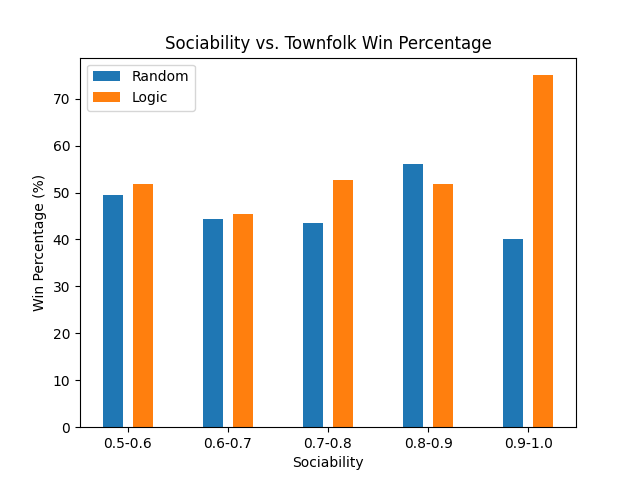
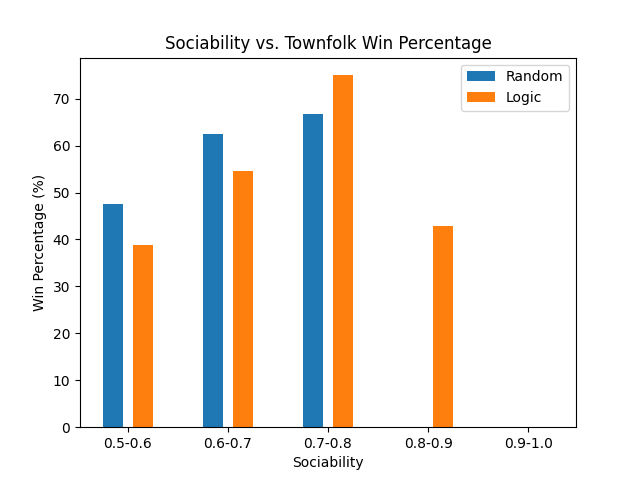
updated README file and added argument parser

diff --git a/main.py b/main.py
@@ -1,8 +1,9 @@
 from MafiaGame import MafiaGame
 import matplotlib.pyplot as plt
+import argparse
 from plot import *
 
-def main():
+def simulate_results(n_villagers, n_mafia, n_detectives, sim_runs):
    results = {
        "Random": {
            "Mafia": [],
@@ -15,7 +16,7 @@ def main():
    }
 
    for strategy in ["Random", "Logic"]:
-      for run in range(1000):
+      for run in range(100):
             mafiaGame = MafiaGame(1, 1, 1, visualize_ks=False, verbose=False)
             if strategy == "Random":
                 result = mafiaGame.start(True, True)
@@ -25,6 +26,34 @@ def main():
 
    plot_sociability_box(results)
    plot_win_percentages(results)
+
+def main():
+   # Initialize the argument parser
+   parser = argparse.ArgumentParser()
+   parser.add_argument("n_v", help="number of villagers")
+   parser.add_argument("n_m", help="number of mafia")
+   parser.add_argument("n_d", help="number of detectives")
+   parser.add_argument("-s", "--sim", nargs='?', default=-1, const=100, help="run a simulation of SIM runs (comparing random vs. strategy)")
+   parser.add_argument("--vis", action="store_true", help="visualize the Kripke structures (during a single run)")
+   parser.add_argument("-v", "--verbose", action="store_true", help="turn verbose on (during a single run)")
+   args = parser.parse_args()
+
+   # Determine the parameter values
+   n_villagers = int(args.n_v)
+   n_mafia = int(args.n_m)
+   n_detectives = int(args.n_d)
+   sim_runs = int(args.sim)
+   vis = args.vis
+   verbose = args.verbose
+   
+   # Run the program
+   if sim_runs != -1:
+      # Perform a simulation
+      simulate_results(n_villagers, n_mafia, n_detectives, sim_runs)
+   else:
+      # Perform a single run
+      mafiaGame = MafiaGame(n_villagers, n_mafia, n_detectives, visualize_ks=vis, verbose=verbose)
+      mafiaGame.start()
 
 if __name__ == '__main__':
    main()

diff --git a/MafiaGame.py b/MafiaGame.py
@@ -115,8 +115,8 @@ class MafiaGame:
                         self.update_detective_knowledge(
                             player, discovered_player)
                         if self.vizualize_ks:
-                            self.ks.visualize(str("Agent " + str(self.players.index(
-                                player)+1) + " (detective) discovered the role of agent " + str(self.players.index(discovered_player)+1) + " (" + str(discovered_player.role)+")"))
+                            self.ks.visualize(str("Agent " + str(self.ks.players.index(
+                                player)+1) + " (detective) discovered the role of agent " + str(self.ks.players.index(discovered_player)+1) + " (" + str(discovered_player.role)+")"))
 
             killed_player = self.night.mafia_phase(kill_randomly)
             killed_player.alive = False

diff --git a/README.md b/README.md
@@ -1,156 +1,19 @@
-# Players
+# Mafia: a game project for LAMAS
 
--   A set of *n* agents
-    *A* = {*a*<sub>1</sub>, *a*<sub>2</sub>, ..., *a*<sub>*n*</sub>}
-    containing:
+Authors: Pieter Jacobs, Tom Veldhuis, Twan Vos
 
-    -   a set of *v* villagers
-        *V* = {*a*<sub>*i*</sub> ∈ *A* \| agent *i* is a villager}
+## Requirements
+The necessary packages for this program to run can be found in `requirements.txt`.
 
-    -   a set of *m* mafia
-        *V* = {*a*<sub>*i*</sub> ∈ *A* \| agent *i* is a mafioso}
+## Usage
+The program can either perform a single run, which can show intermediate Kripke structures during phases of the game and show the events taking place through the terminal:
+```
+python main.py [number of villagers] [number of mafia] [number of detectives] --vis --verbose
+```
 
-    -   a set of *d* detectives
-        *V* = {*a*<sub>*i*</sub> ∈ *A* \| agent *i* is a detective}
+Or perform a simulation of a specified number of runs, after which results will be shown regarding the relation between win percentages of townfolk/mafia and sociability:
+```
+python main.py [number of villagers] [number of mafia] [number of detectives] --sim [number of runs]
+```
 
--   Social parameter: each agent has a unique `social_stat` chance of
-    talking to another agent during a day phase (with
-    0≤`social_stat` ≤ 1)
-
--   During each game, a pre-defined number of players are randomly
-    picked from the set of players. By design, these players are assumed
-    to act suspiciously and can be observed as being suspicious by
-    talking with them.
-
--   Every public announcement by players is assumed to be truthful
-    (including those by mafia).
-
-# Types of knowledge
-
--   Agent *i* is a mafioso: *Maf*<sub>*i*</sub>
-
--   Agent *i* is a detective: *Det*<sub>*i*</sub>
-
--   Agent *i* has been killed: *Dead*<sub>*i*</sub>
-
--   Agent *i* is acting suspiciously: *Sus*<sub>*i*</sub>
-
-# Reasoning rules
-
--   Talking with suspicious players: if agent *i* talks with agent *j*
-    and agent *j* acts suspiciously, then agent *i* knows that agent *j*
-    is acting suspiciously.
-
-    (*a*<sub>*i*</sub> talks with
-    *a*<sub>*j*</sub> ∧ *Sus*<sub>*j*</sub>)
-     → *K*<sub>*i*</sub>*Sus*<sub>*j*</sub>
-
--   Mafia knows who are mafia: if agent *i* and *j* are both mafia, then
-    agent *i* knows agent *j* is a mafioso.
-
-    (*Maf*<sub>*i*</sub>∧*Maf*<sub>*j*</sub>) → *K*<sub>*i*</sub>*Maf*<sub>*j*</sub>
-
--   Suspicious players possibly being mafia: if agent *i* knows that
-    agent *j* is acting suspiciously, then agent *i* considers it to be
-    possible that agent *j* is a mafioso:
-
-    *K*<sub>*i*</sub>*Sus*<sub>*j*</sub> → *M*<sub>*i*</sub>*Maf*<sub>*j*</sub>
-
-# Simulation design
-
--   Parameters:
-
-    -   the number of villagers *v*
-
-    -   the number of mafia *m*
-
-    -   the number of detective *d*
-
-    -   the number of talking rounds in a day phase `nr_of_talks`
-
-    -   the probability distribution of values for `social_stat` for
-        each player
-
-    -   the number of non-mafia players that are acting suspiciously
-        `nr_of_sus` (with 0≤ `nr_of_sus`  ≤ (*n*−*m*))
-
--   Talking rounds:
-
-    During a talking round, half of the players are randomly picked to
-    start talks. Each of these players uses their `social_stat` as the
-    probability of whether they want to have a talk during that round.
-    If the player does want to talk, they invite another randomly picked
-    player to talk with. If the invited player also wants to talk (based
-    on their `social_stat`), the talk between these two players starts.
-    Now, the reasoning rules can be applied, such that the knowledge
-    base can be extended.
-
--   Run of one game of Mafia:
-
-    1.  Initialization of players:
-
-        -   The pool of players is generated: *v* villagers, *m* mafia
-            and *d* detectives
-
-        -   For each player, the value for `social_stat` is generated
-            through the `social_stat` distribution.
-
-        -   From the pool of players, `nr_of_sus` players are randomly
-            picked, such that agent *i*
-
-    2.  Initial day phase: `nr_of_talks` talking rounds are done, but no
-        voting happens yet.
-
-    3.  **Night phase**:
-
-        1.  Detectives randomly pick one player (which they have not
-            checked out before) and gain the knowledge of whether that
-            player is a mafioso: f.e. if agent *i* is a detective and
-            they check out agent *j*, the knowledge extends with
-            *K*<sub>*i*</sub>*Maf*<sub>*j*</sub> (if agent *j* is a
-            mafioso) or *K*<sub>*i*</sub>¬*Maf*<sub>*j*</sub> (if
-            agent *j* isn’t a mafioso).
-
-        2.  The mafia generate a list of living players that know that
-            they are suspicious (f.e. for each mafioso *i*, agent *j* is
-            added to the list if
-            *K*<sub>*i*</sub>*K*<sub>*j*</sub>*Sus*<sub>*i*</sub> ∧ ¬*Dead*<sub>*j*</sub>).
-            From this list, they pick one random player *i* to kill,
-            thus the knowledge extends with *Dead*<sub>*i*</sub>.
-            If the list is empty, a random living non-mafia player is
-            picked.
-
-    4.  **Day phase**:
-
-        1.  *Announcement phase*: The player *i* who was killed during
-            the night phase is publicly announced:
-            *Dead*<sub>*i*</sub>.
-
-            <u>The game ends and is won by the mafia</u> if there are
-            more living mafia than living non-mafia players remaining.
-
-        2.  *Discussion phase*: `nr_of_talks` talking rounds are done,
-            during which reasoning rules are applied.
-
-        3.  *Voting phase*: Each non-mafia player generates a list of
-            living players that they know are suspicious (f.e. for each
-            non-mafia player *i*, agent *j* is added to their list if
-            *K*<sub>*i*</sub>*Sus*<sub>*j*</sub> ∧ ¬*Dead*<sub>*j*</sub>).
-            If the player’s list is empty, a random living player added
-            to their list. Similarly, each mafioso generates a list of
-            living players that know that they are suspicious (f.e. for
-            each mafioso *i*, agent *j* is added to the list if
-            *K*<sub>*i*</sub>*K*<sub>*j*</sub>*Sus*<sub>*i*</sub> ∧ ¬*Dead*<sub>*j*</sub>).
-            If the mafioso’s list is empty, a random non-mafia living
-            player added to their list.
-
-            Then, all players pick a random player from their list that
-            they want to vote to kill. The player *i* with the most
-            votes is killed: *Dead*<sub>*i*</sub>. If there is a
-            tie, a randomly picked player from the tie is killed.
-
-            <u>The game ends and is won by the mafia</u> if there are
-            more living mafia than living non-mafia players remaining.
-
-            <u>The game ends and is won by the non-mafia players</u> if
-            all the mafia are killed.
+More details about the used arguments can be found by running `python main.py -h`.
